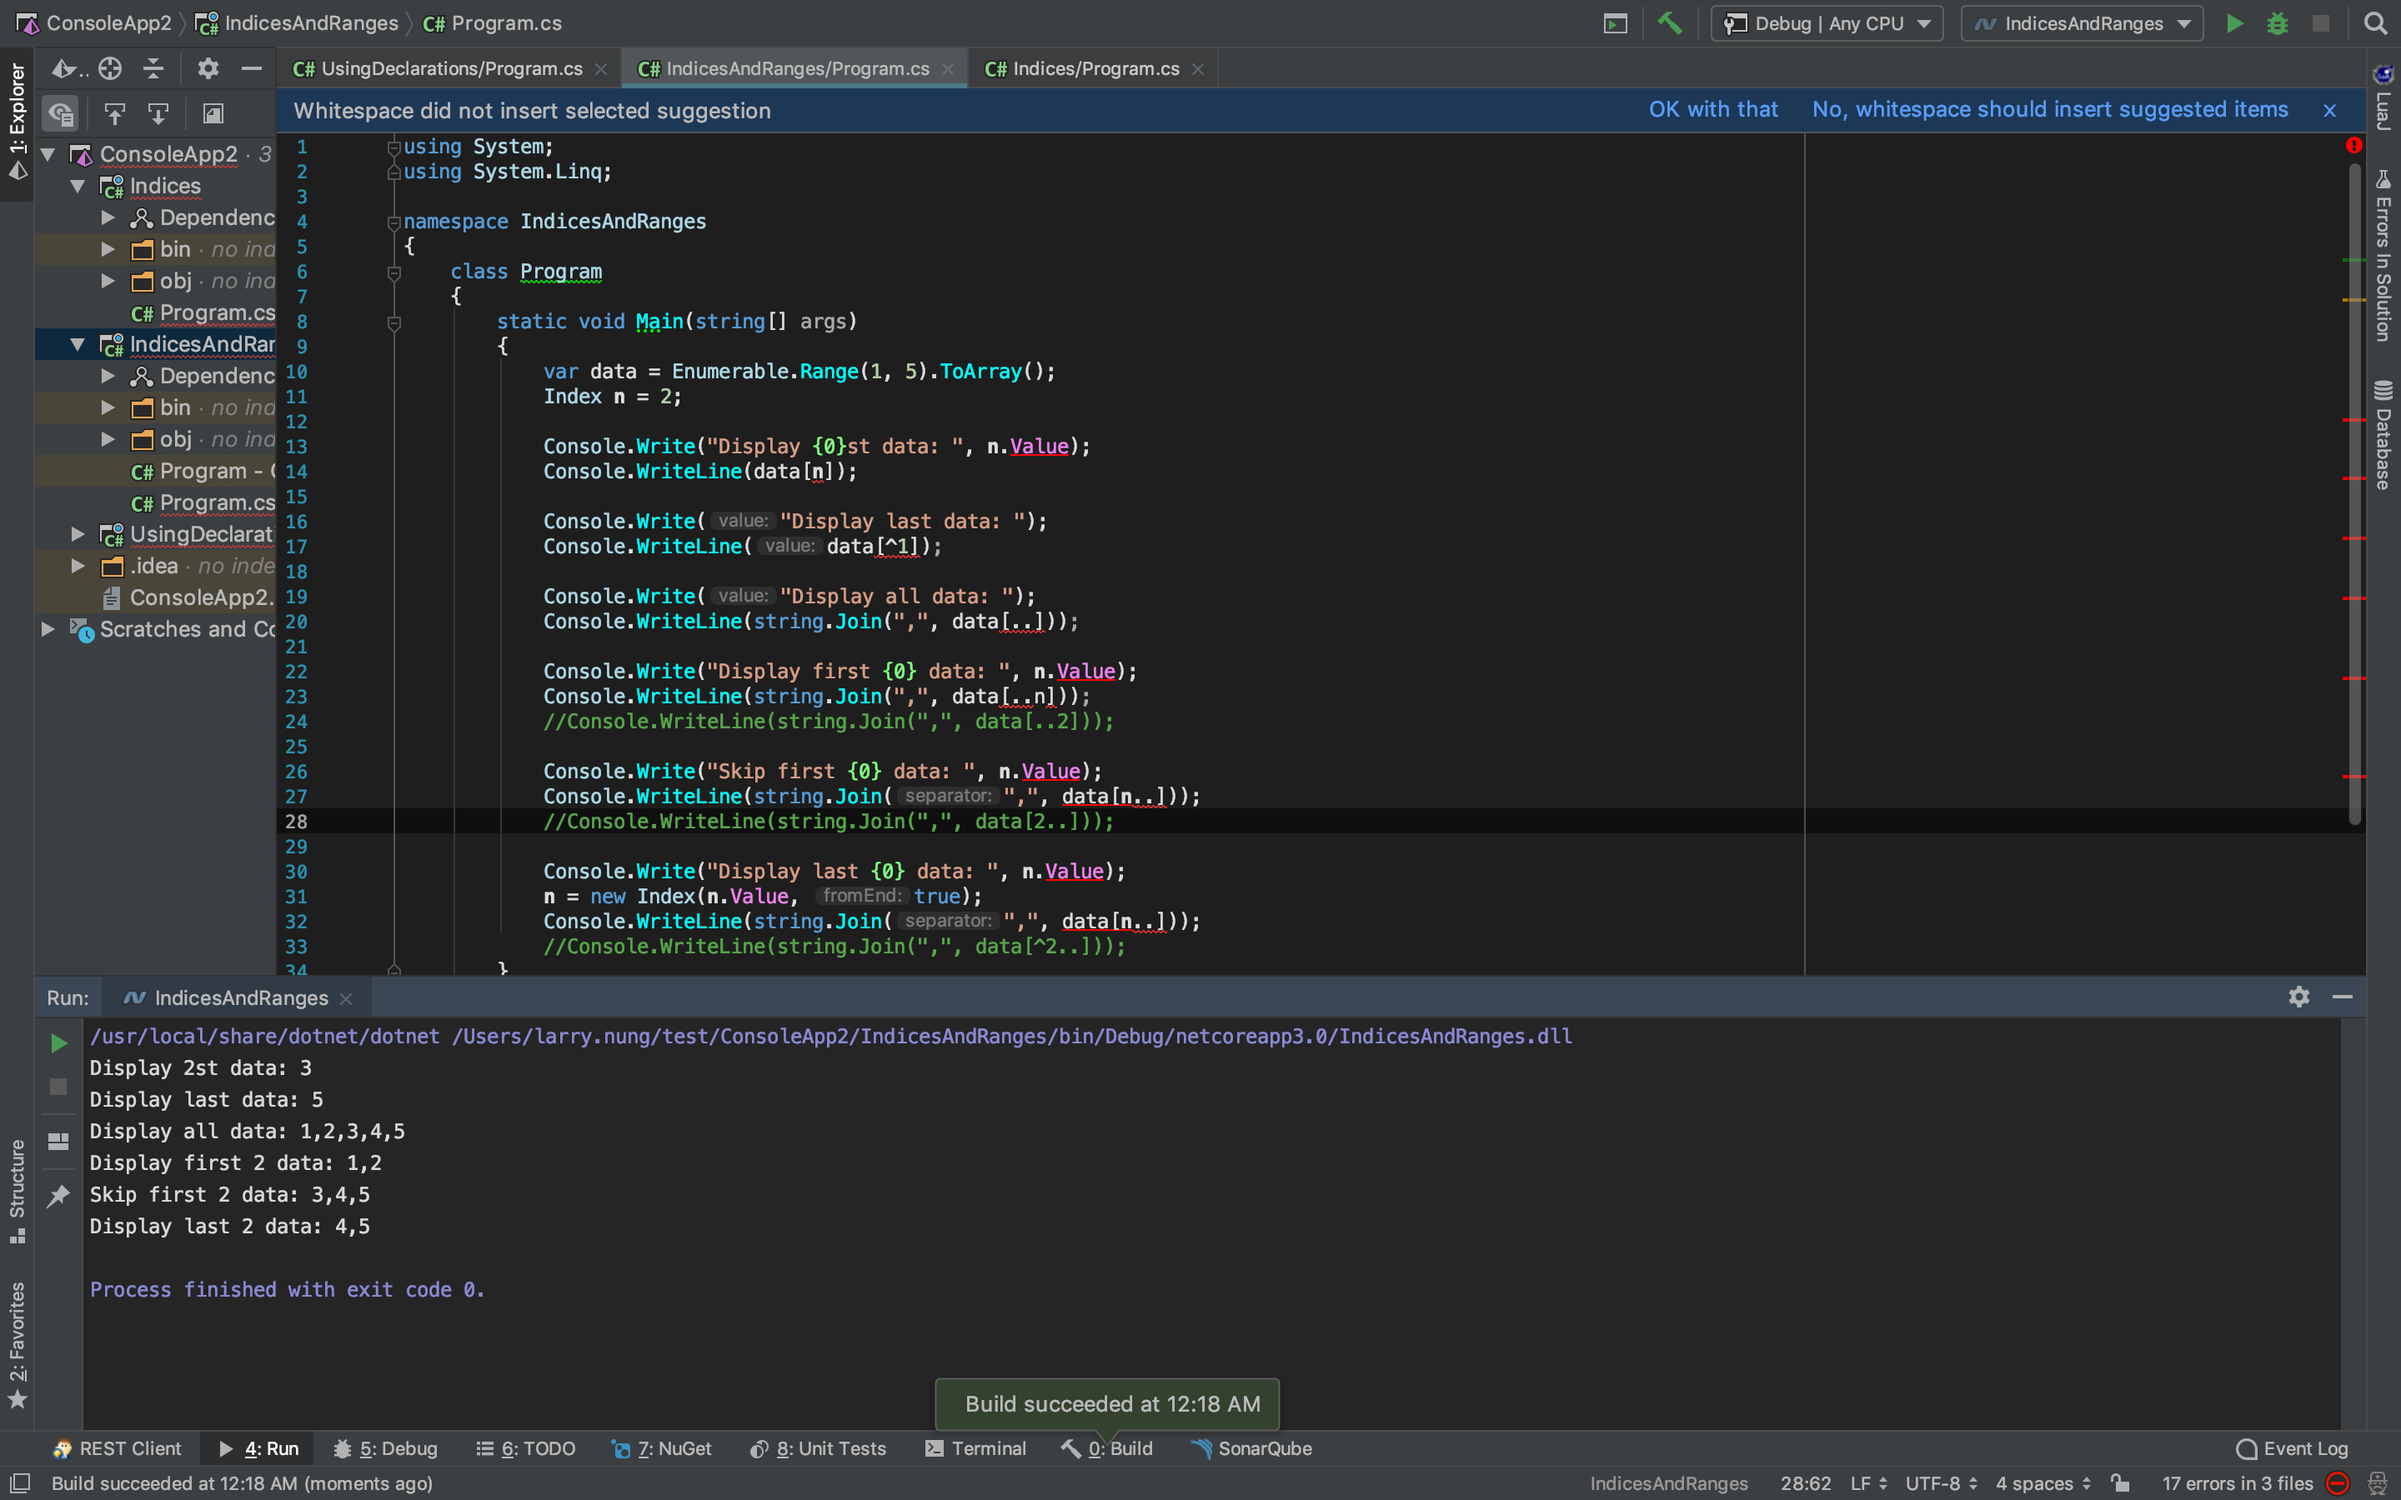
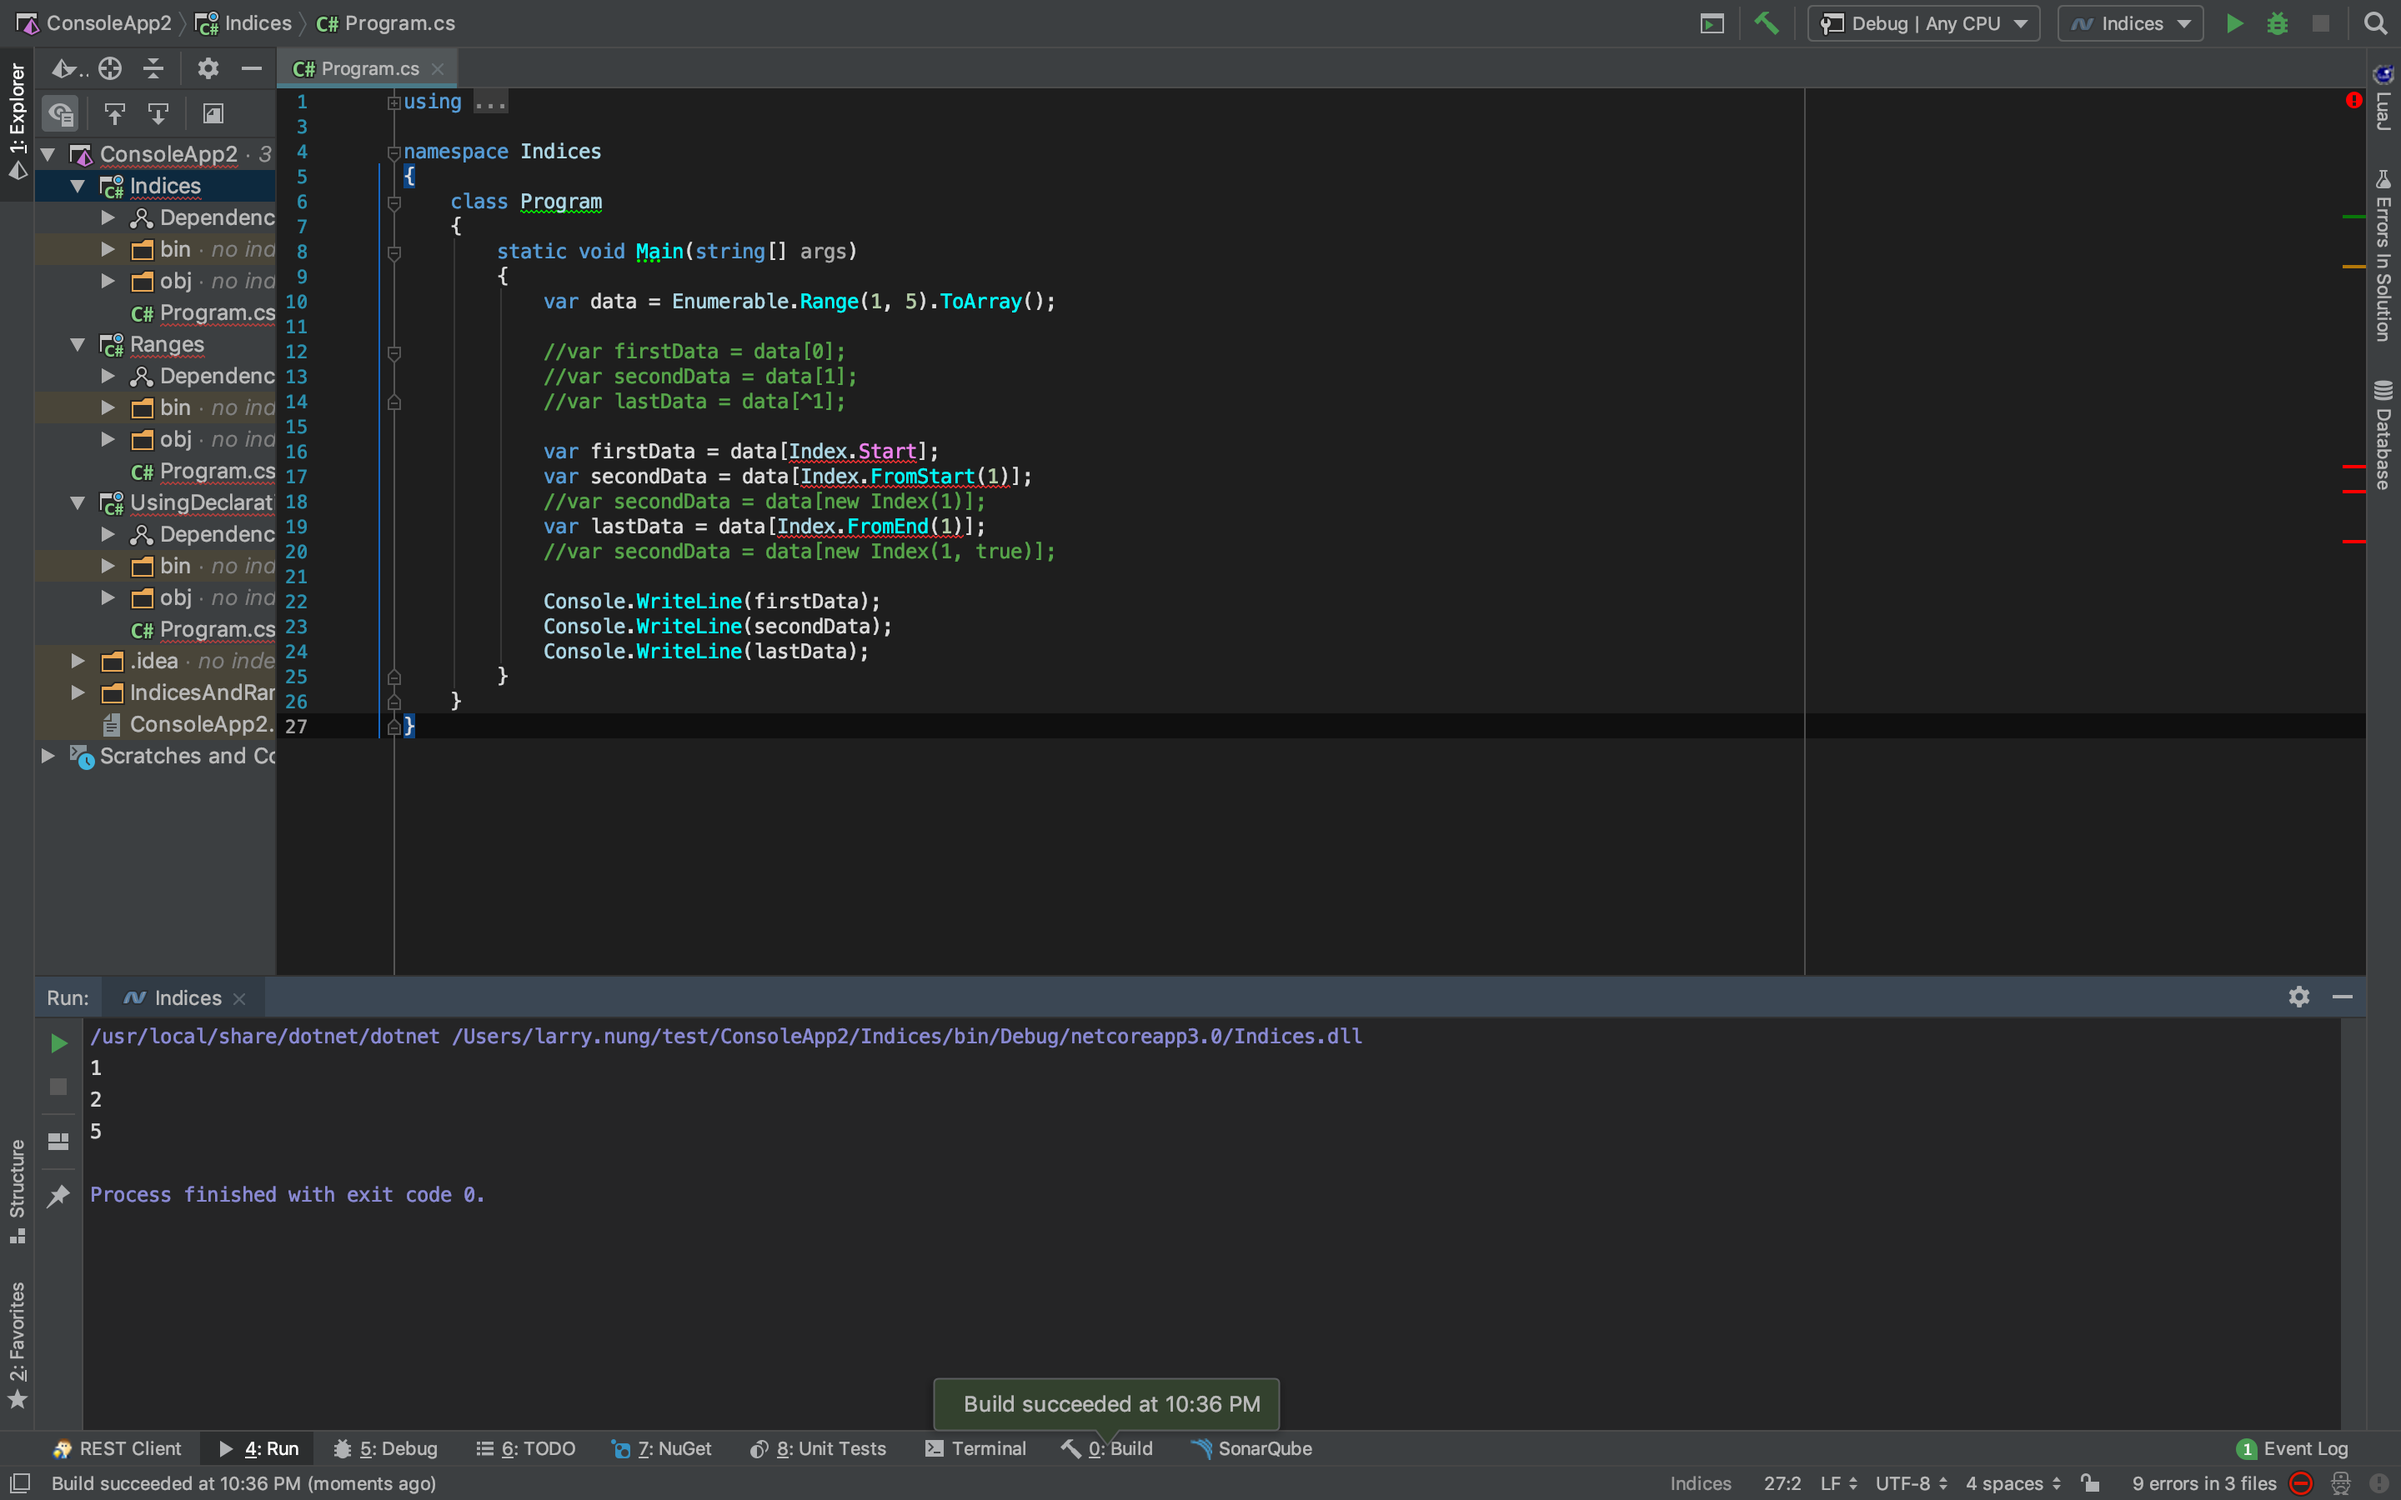
C# 8.0 - Indices and ranges

diff --git a/source/_posts/C-8-0-Indices-and-ranges.md b/source/_posts/C-8-0-Indices-and-ranges.md
@@ -37,6 +37,43 @@ var lastData = data[Index.FromEnd(1)];
 <br/>
 
 
+完整的範例會像下面這樣：  
+
+```C#
+using System;
+using System.Linq;
+
+namespace Indices
+{
+    class Program
+    {
+        static void Main(string[] args)
+        {
+            var data = Enumerable.Range(1, 5).ToArray();
+
+            //var firstData = data[0];
+            //var secondData = data[1];
+            //var lastData = data[^1];
+            
+            var firstData = data[Index.Start];
+            var secondData = data[Index.FromStart(1)];
+            //var secondData = data[new Index(1)];
+            var lastData = data[Index.FromEnd(1)];
+            //var secondData = data[new Index(1, true)];
+
+            Console.WriteLine(firstData);
+            Console.WriteLine(secondData);
+            Console.WriteLine(lastData);
+        }
+    }
+}
+```
+
+{% asset_img 1.png %}
+
+<br/>
+
+
 若是要取得陣列的部分內容，可搭配 Range 使用，用 .. 串接起始與中止索引，指定索引的範圍。  
 
 ```C#
@@ -67,45 +104,40 @@ var middleData = data[new Range(Index.FromStart(2), Index.FromStart(4))];
 <br/>
 
 
-最後看一下完整的測試範例：  
+完整的範例會像下面這樣：  
 
 ```C#
 using System;
 using System.Linq;
 
-namespace IndicesAndRanges
+namespace Ranges
 {
     class Program
     {
         static void Main(string[] args)
         {
             var data = Enumerable.Range(1, 5).ToArray();
-            Index n = 2;
             
-            Console.Write("Display {0}st data: ", n.Value);
-            Console.WriteLine(data[n]);
+            //var allData = data[..];
+            //var firstTwoData = data[..2];
+            //var lastTwoData = data[^2..];
+            //var skipTwoData = data[2..];
+            //var middleData = data[2..4];
             
-            Console.Write("Display last data: ");
-            Console.WriteLine(data[^1]);
+            var allData = data[Range.All];
+            var firstTwoData = data[new Range(Index.Start, Index.FromStart(2))];
+            var lastTwoData = data[new Range(Index.FromEnd(2), Index.End)];
+            var skipTwoData = data[new Range(Index.FromStart(2), Index.End)];
+            var middleData = data[new Range(Index.FromStart(2), Index.FromStart(4))];
 
-            Console.Write("Display all data: ");
-            Console.WriteLine(string.Join(",", data[..]));
-            
-            Console.Write("Display first {0} data: ", n.Value);
-            Console.WriteLine(string.Join(",", data[..n]));
-            //Console.WriteLine(string.Join(",", data[..2]));
-            
-            Console.Write("Skip first {0} data: ", n.Value);
-            Console.WriteLine(string.Join(",", data[n..]));
-            //Console.WriteLine(string.Join(",", data[2..]));
-            
-            Console.Write("Display last {0} data: ", n.Value);
-            n = new Index(n.Value, true);
-            Console.WriteLine(string.Join(",", data[n..]));
-            //Console.WriteLine(string.Join(",", data[^2..]));
+            Console.WriteLine(string.Join(",", allData));
+            Console.WriteLine(string.Join(",", firstTwoData));
+            Console.WriteLine(string.Join(",", lastTwoData));
+            Console.WriteLine(string.Join(",", skipTwoData));
+            Console.WriteLine(string.Join(",", middleData));
         }
     }
 }
 ```
 
-{% asset_img 1.png %}
+{% asset_img 2.png %}
